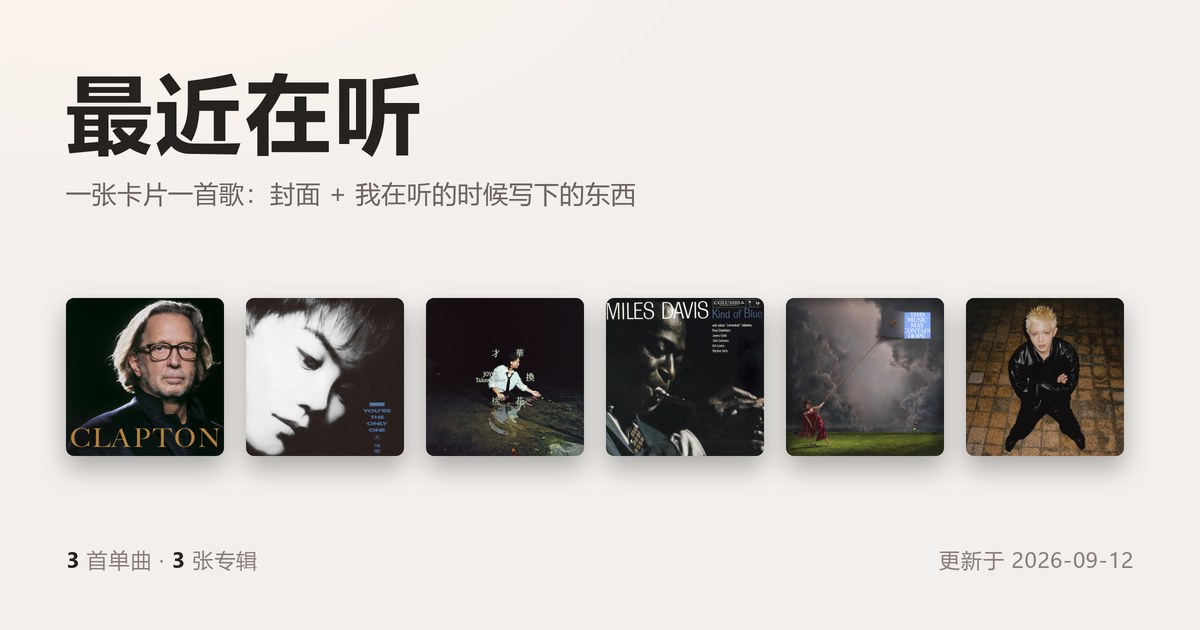
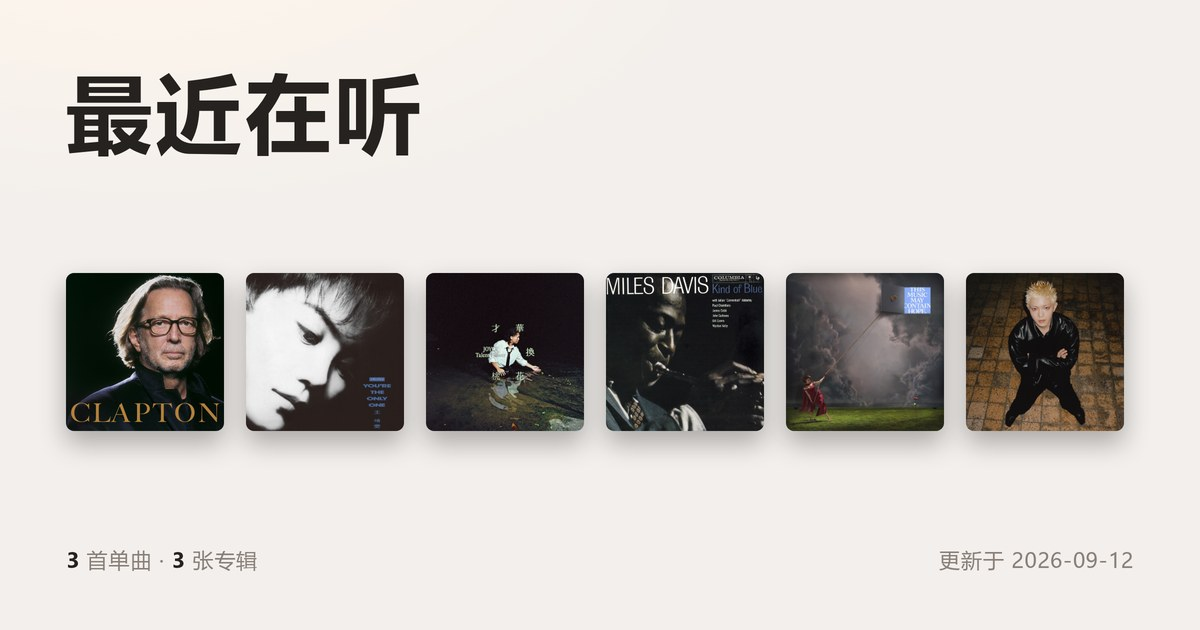
预览卡去文案：标题下不再有说明小字
用户要"简约一点，不必说太多"。

- make_share.py：预览图删掉标题下的说明句，只留标题 + 六张封面 + 底部一行信息
- build.py：一并去掉 og:description / description —— 分享卡片上也别堆文案
- README：常量说明跟着改（SITE / TITLE 两个）

Changed region(s): [[0.0308, 0.4222, 0.9558, 0.754], [0.0617, 0.2714, 0.5242, 0.3317]]

diff --git a/index-light.html b/index-light.html
@@ -4,11 +4,9 @@
 <meta charset="utf-8">
 <meta name="viewport" content="width=device-width,initial-scale=1">
 <title>最近在听</title>
-<meta name="description" content="一张卡片一首歌：封面 + 我在听的时候写下的东西">
 <meta property="og:type" content="website">
 <meta property="og:site_name" content="最近在听">
 <meta property="og:title" content="最近在听">
-<meta property="og:description" content="一张卡片一首歌：封面 + 我在听的时候写下的东西">
 <meta property="og:url" content="https://shoutingyihui.github.io/music-wall/">
 <meta property="og:image" content="https://shoutingyihui.github.io/music-wall/assets/share.jpg">
 <meta property="og:image:width" content="1200">

diff --git a/index.html b/index.html
@@ -4,11 +4,9 @@
 <meta charset="utf-8">
 <meta name="viewport" content="width=device-width,initial-scale=1">
 <title>最近在听</title>
-<meta name="description" content="一张卡片一首歌：封面 + 我在听的时候写下的东西">
 <meta property="og:type" content="website">
 <meta property="og:site_name" content="最近在听">
 <meta property="og:title" content="最近在听">
-<meta property="og:description" content="一张卡片一首歌：封面 + 我在听的时候写下的东西">
 <meta property="og:url" content="https://shoutingyihui.github.io/music-wall/">
 <meta property="og:image" content="https://shoutingyihui.github.io/music-wall/assets/share.jpg">
 <meta property="og:image:width" content="1200">

diff --git a/make_share.py b/make_share.py
@@ -51,7 +51,6 @@ body{{width:{W}px;height:{H}px;background:#f2efec;color:#26221f;
 body::before{{content:"";position:absolute;inset:0;
   background:radial-gradient(900px 420px at 12% -10%, #fff6ec 0%, rgba(255,246,236,0) 70%);}}
 h1{{font-size:86px;font-weight:700;letter-spacing:.04em;line-height:1.1;position:relative}}
-.sub{{font-size:25px;color:#6d655f;margin-top:18px;letter-spacing:.02em;position:relative}}
 .strip{{display:flex;gap:22px;align-items:flex-end;position:relative}}
 .strip img{{width:{side}px;height:{side}px;object-fit:cover;border-radius:8px;
   box-shadow:0 12px 26px rgba(0,0,0,.30)}}
@@ -61,7 +60,6 @@ h1{{font-size:86px;font-weight:700;letter-spacing:.04em;line-height:1.1;position
 </style></head><body>
 <div>
   <h1>最近在听</h1>
-  <div class="sub">一张卡片一首歌：封面 + 我在听的时候写下的东西</div>
 </div>
 <div class="strip">{imgs}</div>
 <div class="foot">

diff --git a/build.py b/build.py
@@ -38,12 +38,10 @@ UPDATED = "2026-09-12"                  # 兜底值；实际用 data/entries.jso
 # 一个真实的绝对 URL（这里指向仓库里的 assets/share.jpg，见 make_share.py）。
 SITE = "https://shoutingyihui.github.io/music-wall/"
 TITLE = "最近在听"
-DESC = "一张卡片一首歌：封面 + 我在听的时候写下的东西"
-META = f"""<meta name="description" content="{DESC}">
-<meta property="og:type" content="website">
+# 故意不写 og:description / description —— 卡片上只留标题 + 图，不堆文案
+META = f"""<meta property="og:type" content="website">
 <meta property="og:site_name" content="{TITLE}">
 <meta property="og:title" content="{TITLE}">
-<meta property="og:description" content="{DESC}">
 <meta property="og:url" content="{SITE}">
 <meta property="og:image" content="{SITE}assets/share.jpg">
 <meta property="og:image:width" content="1200">

diff --git a/README.md b/README.md
@@ -34,6 +34,7 @@
 ## 分享预览
 
 `index.html` 的 `<head>` 里写了几条 `og:` 标签，聊天软件/社交平台抓链接时读的就是它们。
-改站点地址或文案时，改 `build.py` 顶部的 `SITE` / `TITLE` / `DESC` 三个常量，再重新 build。
+改站点地址或文案时，改 `build.py` 顶部的 `SITE` / `TITLE` 两个常量，再重新 build。
+卡片上刻意**不写** `og:description`：标题 + 图就够了，不堆文案。
 `og:image` 必须是**绝对 URL 指向一个真实图片文件**，不能是页面里 base64 内嵌的封面——
 抓取程序是另外发一次 HTTP 请求去拿图，看不到内嵌数据。
